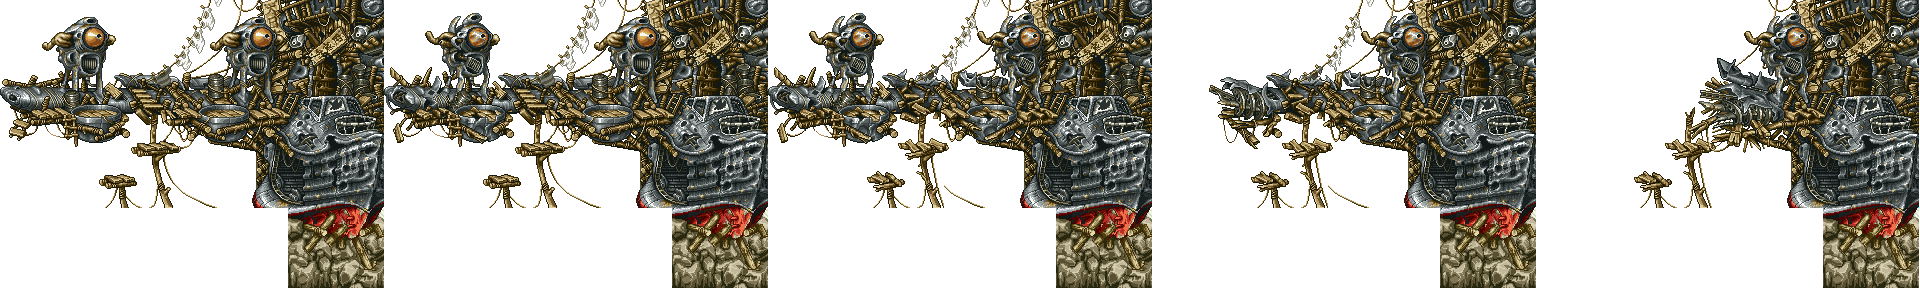
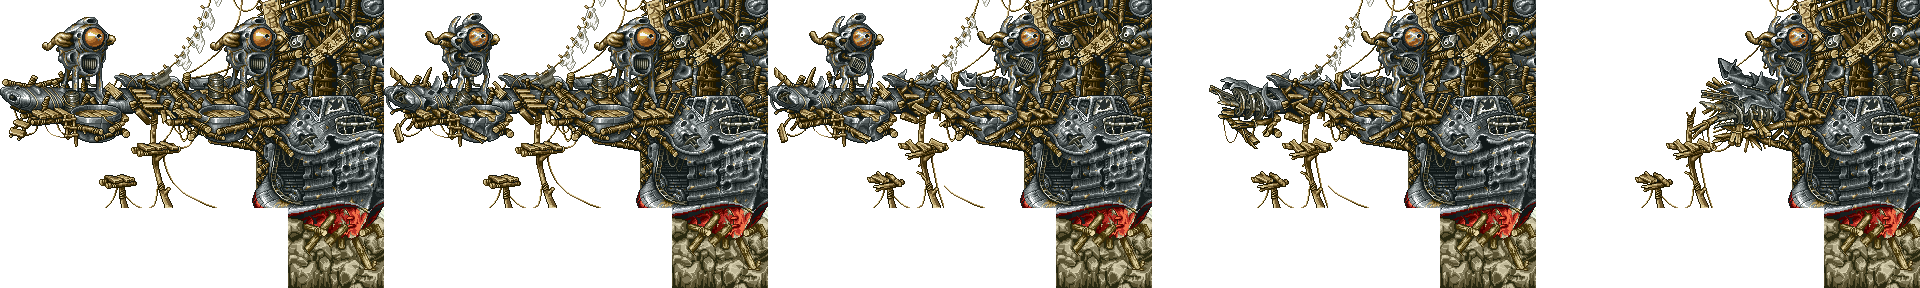
e

Changed region(s): [[0.8438, 0.0, 1.0, 1.0]]

diff --git a/Solution/Project1/Boss.cpp b/Solution/Project1/Boss.cpp
@@ -52,6 +52,21 @@ void Boss::Init()
     UnloadImage(imgSplatter);
     SetTextureFilter(splatterSheet, TEXTURE_FILTER_POINT);
 
+    Image imgCannonDestroyed = LoadImage("Graphics/boss/cannondestoyed1file.png");
+    cannonDestroyedSheet = LoadTextureFromImage(imgCannonDestroyed);
+    UnloadImage(imgCannonDestroyed);
+    SetTextureFilter(cannonDestroyedSheet, TEXTURE_FILTER_POINT);
+
+    Image imgExplo1 = LoadImage("Graphics/boss/explo1boss40x45.png");
+    explo1Sheet = LoadTextureFromImage(imgExplo1);
+    UnloadImage(imgExplo1);
+    SetTextureFilter(explo1Sheet, TEXTURE_FILTER_POINT);
+
+    Image imgExplo2 = LoadImage("Graphics/boss/explo2boss52x70.png");
+    explo2Sheet = LoadTextureFromImage(imgExplo2);
+    UnloadImage(imgExplo2);
+    SetTextureFilter(explo2Sheet, TEXTURE_FILTER_POINT);
+
     cannonFrame = 9;
     cannonGoingUp = true;
     cannonFrameTimer = 0.0f;
@@ -113,7 +128,92 @@ void Boss::Update(float playerX)
     if (!phase2 && !phase2Pending && health <= 5)
         phase2Pending = true;
 
-    if (destroyed) return;  
+    // Guardar posición del cañón
+    if (phase2) {
+        bool isDown = !cannonGoingUp;
+        lastCannonDrawX = posX + laserOffsetX;
+        lastCannonDrawY = posY + (isDown ? laserOffsetDownY : laserOffsetUpY);
+    }
+    else {
+        lastCannonDrawX = posX;
+        bool up = (cannonState == CannonState::OPENING_UP ||
+            cannonState == CannonState::SHOOTING_UP ||
+            cannonState == CannonState::CLOSING_UP);
+        lastCannonDrawY = up ? posY - 150.0f : posY;
+    }
+
+    if (destroyed) {
+        // Avanzar destroyFrame cada 0.5 segundos
+        static float dfTimer = 0.0f;
+        dfTimer += dt;
+        if (dfTimer >= 0.5f && destroyFrame < 4) {
+            dfTimer = 0.0f;
+            destroyFrame++;
+        }
+        if (!cannonDestroyedVisible) {
+            cannonDestroyedVisible = true;
+            cannonDestroyedTimer = 0.0f;
+            isFlashing = false;
+            flashActive = false;
+        }
+        cannonDestroyedTimer += dt;
+        destroyedTimer += dt;
+
+        // Spawn explosiones durante 8 segundos
+        if (destroyedTimer < DESTROY_EXPLOSION_DURATION) {
+            explosionSpawnTimer += dt;
+            if (explosionSpawnTimer >= explosionSpawnDelay) {
+                explosionSpawnTimer = 0.0f;
+                for (int i = 0; i < MAX_BOSS_EXPLOSIONS; i++) {
+                    if (!bossExplosions[i].active) {
+                        bossExplosions[i].active = true;
+                        bossExplosions[i].frame = 0;
+                        bossExplosions[i].timer = 0.0f;
+                        bossExplosions[i].type = GetRandomValue(0, 1);
+
+                        // Calcular límite izquierdo según frame de destrucción
+                        int leftLimit = 0;
+                        if (destroyFrame >= 3) leftLimit = 56;
+                        if (destroyFrame >= 4) leftLimit = 161;
+
+                        int zone = GetRandomValue(0, 1);
+                        Vector2 spawnPos;
+                        if (zone == 0) {
+                            // Parte horizontal arriba — reducida por la izquierda
+                            spawnPos = {
+                                TETSU_X + (float)GetRandomValue(leftLimit, 384) * CANNON_SCALE,
+                                TETSU_Y + (float)GetRandomValue(0, 144) * CANNON_SCALE
+                            };
+                        }
+                        else {
+                            // Parte vertical derecha
+                            spawnPos = {
+                                TETSU_X + (float)GetRandomValue(254, 384) * CANNON_SCALE,
+                                TETSU_Y + (float)GetRandomValue(144, 288) * CANNON_SCALE
+                            };
+                        }
+                        bossExplosions[i].pos = spawnPos;
+                        break;
+                    }
+                }
+            }
+        }
+
+        // Actualizar explosiones
+        for (int i = 0; i < MAX_BOSS_EXPLOSIONS; i++) {
+            if (!bossExplosions[i].active) continue;
+            bossExplosions[i].timer += dt;
+            if (bossExplosions[i].timer >= EXPLO_FRAME_DURATION) {
+                bossExplosions[i].timer = 0.0f;
+                bossExplosions[i].frame++;
+                if (bossExplosions[i].frame >= EXPLO_FRAMES) {
+                    bossExplosions[i].active = false;
+                }
+            }
+        }
+
+        return;
+    }
 
     if (phase2)
         UpdateLaser(dt);
@@ -568,6 +668,37 @@ void Boss::Draw()
         DrawTent();
         return;
     }
+
+    if (destroyed) {
+        if (cannonDestroyedVisible && cannonDestroyedTimer < CANNON_DESTROYED_DURATION) {
+            Rectangle src = { 0, 0, CANNON_DESTROYED_W, CANNON_DESTROYED_H };
+            float centerOffsetX = (CANNON_FRAME_W * CANNON_SCALE - CANNON_DESTROYED_W * CANNON_SCALE) / 2.0f;
+            float centerOffsetY = (CANNON_FRAME_H * CANNON_SCALE - CANNON_DESTROYED_H * CANNON_SCALE) / 2.0f;
+            Rectangle dst = { 16160.0f, 220.0f, CANNON_DESTROYED_W * CANNON_SCALE, CANNON_DESTROYED_H * CANNON_SCALE };
+            DrawTexturePro(cannonDestroyedSheet, src, dst, { 0,0 }, 0.0f, WHITE);
+        }
+
+        // Dibujar explosiones
+        for (int i = 0; i < MAX_BOSS_EXPLOSIONS; i++) {
+            if (!bossExplosions[i].active) continue;
+            if (bossExplosions[i].type == 0) {
+                Rectangle src = { bossExplosions[i].frame * EXPLO1_W, 0, EXPLO1_W, EXPLO1_H };
+                Rectangle dst = { bossExplosions[i].pos.x, bossExplosions[i].pos.y,
+                                  EXPLO1_W * CANNON_SCALE, EXPLO1_H * CANNON_SCALE };
+                DrawTexturePro(explo1Sheet, src, dst, { 0,0 }, 0.0f, WHITE);
+            }
+            else {
+                Rectangle src = { bossExplosions[i].frame * EXPLO2_W, 0, EXPLO2_W, EXPLO2_H };
+                Rectangle dst = { bossExplosions[i].pos.x, bossExplosions[i].pos.y,
+                                  EXPLO2_W * CANNON_SCALE, EXPLO2_H * CANNON_SCALE };
+                DrawTexturePro(explo2Sheet, src, dst, { 0,0 }, 0.0f, WHITE);
+            }
+        }
+
+        DrawPlasma();
+        return;
+    }
+
     if (phase2) {
         DrawLaser();
     }
@@ -600,6 +731,8 @@ void Boss::Draw()
             drawY = posY - 150.0f;
         Rectangle dst = { posX, drawY, CANNON_FRAME_W * CANNON_SCALE, CANNON_FRAME_H * CANNON_SCALE };
         Color tint = (isFlashing && hitFlashCount % 2 == 0) ? Color{ 255, 220, 100, 255 } : WHITE;
+        lastCannonDrawX = posX;
+        lastCannonDrawY = drawY;
         DrawTexturePro(cannonSheet, src, dst, { 0, 0 }, 0.0f, tint);
         if (flashActive) {
             Rectangle flashSrc = {
@@ -616,7 +749,6 @@ void Boss::Draw()
         }
     }
 
-    // Splatter — siempre visible si está activo
     if (splatterActive) {
         float beamY = posY + laserOffsetUpY + (LASER_FRAME_H * CANNON_SCALE) / 2.0f
             - (SPLATTER_H * CANNON_SCALE) / 2.0f + 30.0f;
@@ -758,6 +890,8 @@ void Boss::DrawPlasma() const
 
 void Boss::DrawLaser() const
 {
+    if (destroyed) return;
+
     if (laserState == LaserState::MOVING) {
         Rectangle src = { cannonFrame * CANNON_FRAME_W, 0.0f, CANNON_FRAME_W, CANNON_FRAME_H };
         Rectangle dst = { posX, posY, CANNON_FRAME_W * CANNON_SCALE, CANNON_FRAME_H * CANNON_SCALE };

diff --git a/Solution/Project1/Boss.hpp b/Solution/Project1/Boss.hpp
@@ -15,6 +15,7 @@ public:
     bool IsInIntro() const { return introState != IntroState::DONE; }
 
     void TakeDamage(int amount = 1) {
+        if (destroyed) return;  // ← añade esto primero
         if (active || introState != IntroState::DONE) {
             health -= amount;
             if (health <= 0) {
@@ -72,6 +73,8 @@ public:
         float offsetY = (BEAM_H * CANNON_SCALE - h + 20.0f) / 2.0f;  // centra verticalmente
         return { -500.0f, beamY + offsetY, startX + 500.0f, h };
     }
+
+    int GetDestroyFrame() const { return destroyFrame; }
 
 private:
     // ── Estado general ────────────────────────────────────────
@@ -321,4 +324,47 @@ private:
     bool beamUpVisible = false;
     bool laserBeamVisible = false;
     bool destroyed = false;
+
+    Texture2D cannonDestroyedSheet = { 0 };
+    float     cannonDestroyedTimer = 0.0f;
+    bool      cannonDestroyedVisible = false;
+    static constexpr float CANNON_DESTROYED_DURATION = 1.5f;
+    static constexpr float CANNON_DESTROYED_W = 39.0f;
+    static constexpr float CANNON_DESTROYED_H = 41.0f;
+
+    // ── Explosiones destrucción ───────────────────────────────
+    struct BossExplosion {
+        Vector2 pos;
+        int     frame = 0;
+        float   timer = 0.0f;
+        bool    active = false;
+        int     type = 0;  // 0 = explo1, 1 = explo2
+    };
+
+    static constexpr int   MAX_BOSS_EXPLOSIONS = 20;
+    BossExplosion bossExplosions[MAX_BOSS_EXPLOSIONS];
+    float         explosionSpawnTimer = 0.0f;
+    float         explosionSpawnDelay = 0.1f;  // cada cuanto aparece una nueva
+    float         destroyedTimer = 0.0f;
+    static constexpr float DESTROY_EXPLOSION_DURATION = 8.0f;
+    static constexpr float EXPLO_FRAME_DURATION = 0.33f / 28.0f;
+
+    Texture2D explo1Sheet = { 0 };
+    Texture2D explo2Sheet = { 0 };
+    static constexpr float EXPLO1_W = 40.0f;
+    static constexpr float EXPLO1_H = 45.0f;
+    static constexpr float EXPLO2_W = 52.0f;
+    static constexpr float EXPLO2_H = 70.0f;
+    static constexpr int   EXPLO_FRAMES = 28;
+
+    // Área del sprite TETSU (ajusta según posición real)
+    static constexpr float TETSU_X = 15100.0f;
+    static constexpr float TETSU_Y = -400.0f;
+    static constexpr float TETSU_W = 384.0f * 4.0f;
+    static constexpr float TETSU_H = 288.0f * 4.0f;
+
+    int destroyFrame = 0;
+
+    mutable float lastCannonDrawX = 0.0f;
+    mutable float lastCannonDrawY = 0.0f;
 };

diff --git a/Solution/Project1/BackgroundManager.cpp b/Solution/Project1/BackgroundManager.cpp
@@ -29,7 +29,8 @@ void BackgroundManager::Init() {
     AddEventSprite("Graphics/background sprites/more shit and huts/hutss3big.png", { 11800, 150 }, 3, 4.0f, 0.0f, 0.0f, false, 1);
     AddEventSprite("Graphics/background sprites/more shit and huts/woodboss1.png", { 8080, 800 }, 1, 4.0f, 0.0f, 0.0f, false, 1);
     /* AddEventSprite("Graphics/background sprites/more shit and huts/somehutsandwood.png", { 10200, 150 }, 1, 4.0f, 0.0f, 0.0f, false, 2);*/
-    AddEventSprite("Graphics/boss1.png", { 15100, -400 }, 5, 4.0f, 0.0f, 0.0f, false, 2);
+    AddEventSprite("Graphics/boss/TETSU.png", { 15100, -400 }, 1, 4.0f, 0.0f, 0.0f, false, 2);
+    AddEventSprite("Graphics/boss/bossdestroyed384x288.png", { 15100, -400 }, 5, 4.0f, 0.0f, 0.0f, false, 2);
     scale = 4.0f;
     origin = { 0, 0 };
 }

diff --git a/Solution/Project1/game.cpp b/Solution/Project1/game.cpp
@@ -191,8 +191,18 @@ void Game::Update()
     Draw();
 
     // Flash del sprite del boss en background
-    Color bossTint = boss.IsFlashing() ? ORANGE : WHITE;
-    backgroundManager.SetEventSpriteTint(4, bossTint);  // índice 4 = boss1.png
+    Color bossTint = WHITE;
+    if (!boss.IsDestroyed()) {
+        bossTint = boss.IsFlashing() ? ORANGE : WHITE;
+        backgroundManager.SetEventSpriteTint(5, bossTint);
+    }
+    else
+        bossTint = { 255, 255, 255, 0 }; 
+    backgroundManager.SetEventSpriteTint(4, bossTint);
+
+    if (boss.IsDestroyed()) {
+        backgroundManager.SetEventSpriteFrame(5, boss.GetDestroyFrame());
+    }
 
     backgroundManager.FollowPlayer(camera.GetCamera().target);
     backgroundManager.Update(GetFrameTime());
